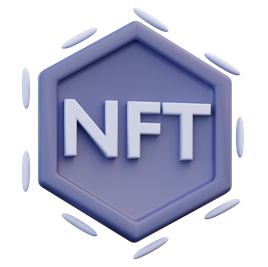
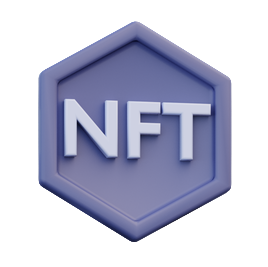
fix nft

diff --git a/README.md b/README.md
@@ -62,7 +62,7 @@
   <a href="https://opensea.io/" target="_blank" > <img src="./assets/opensea.svg" alt="opensea " width="auto" height="70" /> </a> &nbsp;
   <!-- <a href="https://docs.soliditylang.org/" target="_blank" > <img src="./assets/solidity.svg" alt="solidity" width="auto" height="70" /> </a> &nbsp; -->
   <a href="https://web3.foundation/about/" target="_blank" > <img src="./assets/web3-icon.png" alt="web3" width="auto" height="70" /> </a>
-  <a href="https://web3.foundation/about/" target="_blank" > <img src="./assets/nft-removebg-preview.png" alt="nft" width="auto" height="70" /> </a>
+  <a href="https://web3.foundation/about/" target="_blank" > <img src="./assets/nft.png" alt="nft" width="auto" height="70" /> </a>
 
 <p>&nbsp;<img align="center" src="https://github-readme-stats.vercel.app/api?username=vukhaihoan&show_icons=true&locale=en" alt="vukhaihoan" /></p>
 
